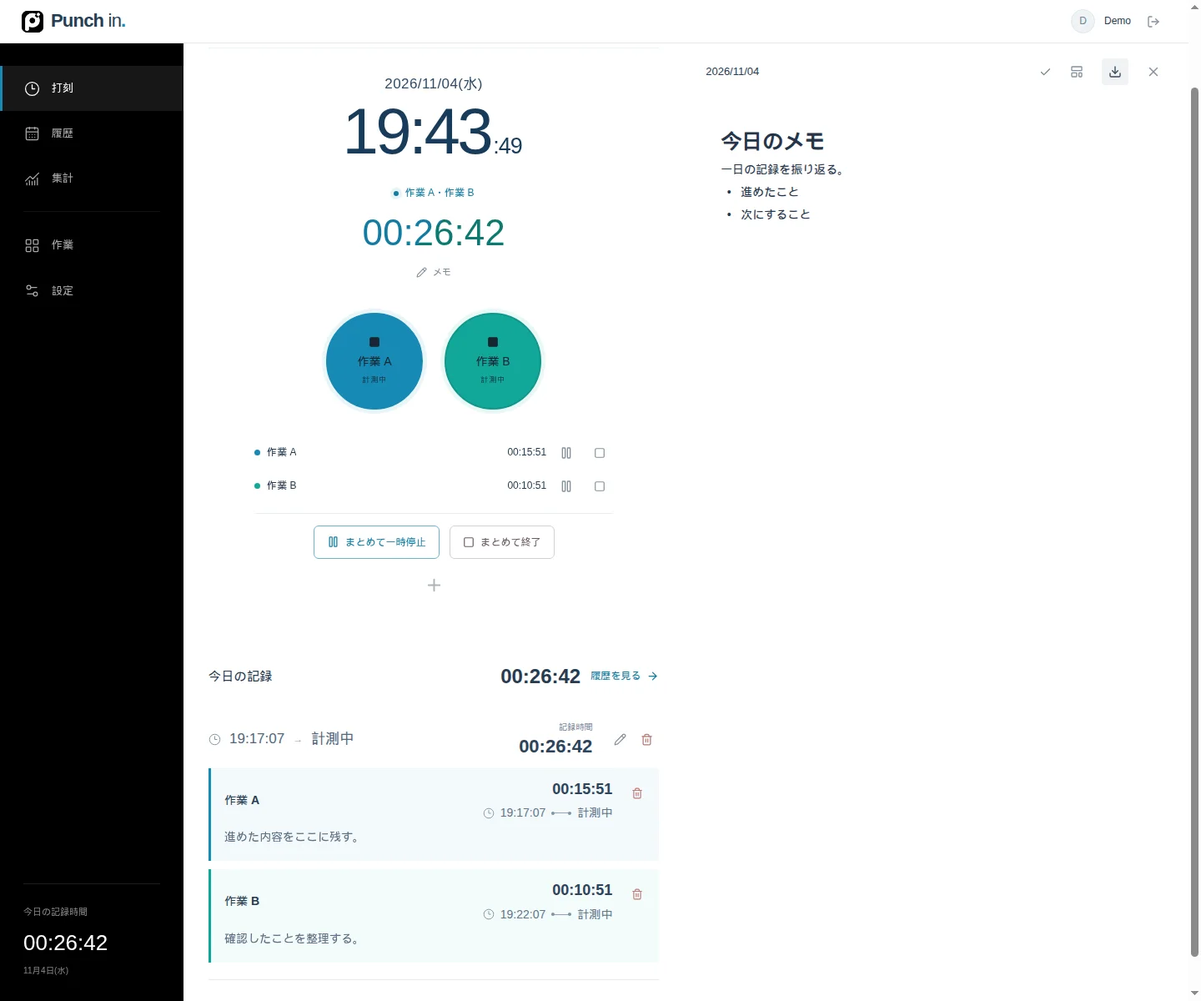
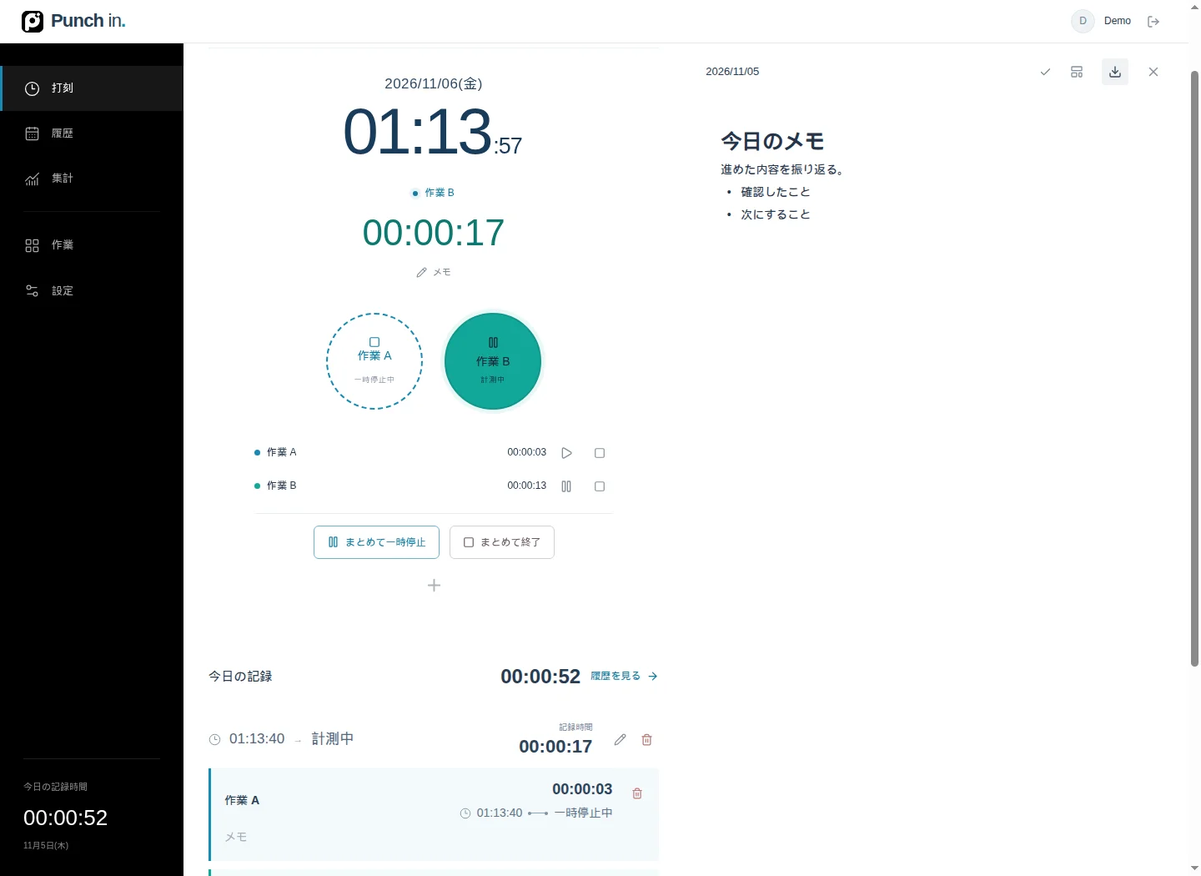
feat: 作業ボタンを開始・一時停止・終了の順に変更

diff --git a/tests/punch.test.ts b/tests/punch.test.ts
@@ -2,6 +2,10 @@ import test from 'node:test';
 import assert from 'node:assert/strict';
 import { DatabaseSync } from 'node:sqlite';
 import { readFileSync, readdirSync } from 'node:fs';
+import {performWork} from '../lib/work-server';
+import {realTime,controlWork,members} from '../lib/work';
+import {sessionSchema} from '../lib/validation';
+import {sessionFromRow} from '../lib/session-row';
 import { performPunch } from '../lib/punch-server';
 import { applyPunchDelta, completedTotal, projectPunch } from '../lib/punch-state';
 import type { AppState, PendingPunch, PunchDelta, Session } from '../lib/model';
@@ -20,16 +24,16 @@ function database(beforeBatch?:(d:DatabaseSync,n:number)=>void){
 function input(revision=0,categoryId='punch',mutationId=crypto.randomUUID()){return{payload:{categoryId},expectedRevision:revision,mutationId};}
 
 test('即時表示は確定データとrevisionを変更しない',()=>{const projected=projectPunch(state,pending);assert.equal(projected.sessions.length,1);assert.equal(projected.sessions[0].startedAt,at);assert.equal(projected.revision,0);assert.equal(state.sessions.length,0);assert.ok(projected.sessions[0].id.startsWith('pending:'));});
-test('通信失敗後は確定データだけで元の表示に戻せる',()=>{const source={...state,sessions:[record('running',at-10000)]};const provisional=projectPunch(source,pending);assert.equal(provisional.sessions[0].endedAt,at);assert.equal(source.sessions[0].endedAt,null);});
+test('通信失敗後は確定データだけで元の表示に戻せる',()=>{const source={...state,sessions:[record('running',at-10000)]};const provisional=projectPunch(source,pending);assert.equal(provisional.sessions[0].endedAt,null);assert.equal(provisional.sessions[0].work!.members[0].state,'paused');assert.equal(realTime(provisional.sessions[0],at+10000),10000);assert.equal(source.sessions[0].endedAt,null);});
 test('先に別端末の更新を受け取ったら仮表示を再適用しない',()=>{const next={...state,revision:1,sessions:[record('saved')]};assert.equal(projectPunch(next,pending),next);});
 test('差分反映は既存履歴を保持し、仮IDを残さない',()=>{const source={...state,sessions:[record('old',at-2000,at-1000)]};const delta:PunchDelta={baseRevision:0,revision:1,serverNow:at+10,sessions:[record('new')]};const merged=applyPunchDelta(source,delta)!;assert.deepEqual(merged.sessions.map(s=>s.id),['new','old']);assert.equal(merged.sessions[1],source.sessions[0]);assert.equal(source.revision,0);});
 test('古い差分は無視し、欠けたrevisionは全体取得を要求',()=>{const delta:PunchDelta={baseRevision:1,revision:2,serverNow:at,sessions:[record('new')]};assert.equal(applyPunchDelta(state,delta),null);const newer={...state,revision:3};assert.equal(applyPunchDelta(newer,delta),newer);});
 test('確定時間の集計に計測中の時間を二重加算しない',()=>{assert.equal(completedTotal([record('old',at-2000,at-1000),record('running')]),1000);});
 test('打刻は履歴全体を読まず2回のDBバッチで確定し、受信時刻を使う',async()=>{const f=database();try{const result=await performPunch(f.d,user,input(),at);assert.ok(result);assert.equal(result.sessions[0].startedAt,at);assert.equal(result.revision,1);assert.equal(f.calls,2);assert.ok(f.queries.filter(s=>s.startsWith('SELECT')&&s.includes('FROM sessions')).every(s=>s.includes('ended_at IS NULL')||s.includes('LIMIT 1')));}finally{f.sqlite.close();}});
-test('開始・ボタンによる並行追加・個別終了と再試行の冪等性',async()=>{const f=database();try{const first=await performPunch(f.d,user,input(),at);assert.ok(first);const nextInput=input(1,'other');const next=await performPunch(f.d,user,nextInput,at+1000);assert.ok(next);assert.equal(next.sessions.length,1);assert.equal(next.sessions[0].id,first.sessions[0].id);assert.equal(next.sessions[0].endedAt,null);assert.deepEqual(next.sessions[0].work!.members.map(m=>m.categoryId),['punch','other']);assert.equal(await performPunch(f.d,user,nextInput,at+2000),null);const stop=await performPunch(f.d,user,input(2,'other'),at+3000);assert.ok(stop);assert.equal(stop.sessions[0].endedAt,null);assert.equal(stop.sessions[0].work!.members[1].endedAt,at+3000);await performPunch(f.d,user,input(3),at+4000);assert.equal(f.sqlite.prepare('SELECT COUNT(*) AS n FROM sessions WHERE ended_at IS NULL').get()?.n,0);}finally{f.sqlite.close();}});
+test('開始・ボタンによる並行追加・個別終了と再試行の冪等性',async()=>{const f=database();try{const first=await performPunch(f.d,user,input(),at);assert.ok(first);const nextInput=input(1,'other');const next=await performPunch(f.d,user,nextInput,at+1000);assert.ok(next);assert.equal(next.sessions.length,1);assert.equal(next.sessions[0].id,first.sessions[0].id);assert.equal(next.sessions[0].endedAt,null);assert.deepEqual(next.sessions[0].work!.members.map(m=>m.categoryId),['punch','other']);assert.equal(await performPunch(f.d,user,nextInput,at+2000),null);const stop=await performPunch(f.d,user,input(2,'other'),at+3000);assert.ok(stop);assert.equal(stop.sessions[0].endedAt,null);assert.equal(stop.sessions[0].work!.members[1].state,'paused');await performPunch(f.d,user,input(3,'other'),at+3500);await performPunch(f.d,user,input(4),at+4000);await performPunch(f.d,user,input(5),at+5000);assert.equal(f.sqlite.prepare('SELECT COUNT(*) AS n FROM sessions WHERE ended_at IS NULL').get()?.n,0);}finally{f.sqlite.close();}});
 test('途中で競合しても打刻を部分保存しない',async()=>{const f=database((d,n)=>{if(n===2)d.exec("UPDATE preferences SET revision=1,mutation_token='other-device'");});try{await assert.rejects(()=>performPunch(f.d,user,input(),at),/別の画面/);assert.equal(f.sqlite.prepare('SELECT COUNT(*) AS n FROM sessions').get()?.n,0);}finally{f.sqlite.close();}});
 test('アーカイブした項目・他人の項目には打刻できない',async()=>{const f=database();try{f.sqlite.exec("UPDATE categories SET archived=1 WHERE id='punch'");await assert.rejects(()=>performPunch(f.d,user,input(),at),/見つかりません/);await assert.rejects(()=>performPunch(f.d,'unknown',input(),at),/再読み込み/);}finally{f.sqlite.close();}});
-test('サーバー時刻のずれがあっても既存区間に重ねない',async()=>{const f=database();try{await performPunch(f.d,user,input(),at);const result=await performPunch(f.d,user,input(1),at-1000);assert.ok(result);assert.equal(result.sessions[0].endedAt,at);}finally{f.sqlite.close();}});
+test('サーバー時刻のずれがあっても既存区間に重ねない',async()=>{const f=database();try{await performPunch(f.d,user,input(),at);const result=await performPunch(f.d,user,input(1),at-1000);assert.ok(result);assert.equal(result.sessions[0].endedAt,null);assert.equal(realTime(result.sessions[0],at+10000),0);}finally{f.sqlite.close();}});
 
 test('通信が遅れても調整済みの押下時刻を記録する',async()=>{const f=database();try{const result=await performPunch(f.d,user,{...input(),pressedAt:at-1500},at);assert.equal(result?.sessions[0].startedAt,at-1500);}finally{f.sqlite.close();}});
 test('不正・古すぎる端末時刻にはサーバー受信時刻を使う',async()=>{for(const pressedAt of [at-60001,at+2001]){const f=database();try{const result=await performPunch(f.d,user,{...input(),pressedAt},at);assert.equal(result?.sessions[0].startedAt,at);}finally{f.sqlite.close();}}});
@@ -38,3 +42,20 @@ test('日の区切りをまたいで届いても押下した日へ計上する',
 test('打刻差分が遅れても先に保存したメモを巻き戻さない',()=>{const source={...state,sessions:[{...record('running'),memo:'保存済みのメモ'}]};const next=applyPunchDelta(source,{baseRevision:0,revision:1,serverNow:at+1000,sessions:[record('running',at,at+1000)]});assert.equal(next?.sessions[0].memo,'保存済みのメモ');assert.equal(next?.sessions[0].endedAt,at+1000);});
 
 test('並行数の上限を超えても仮表示で画面を壊さず確定状態を保つ',()=>{const ids=Array.from({length:50},(_,i)=>i?'work-'+i:'punch');const s:Session={...record('running'),work:{version:1,mode:'auto',members:ids.map(categoryId=>({categoryId,memo:'',state:'active',weight:1})),intervals:[{start:at,end:null,categoryIds:ids}]}};const source={...state,sessions:[s]};assert.equal(projectPunch(source,{...pending,categoryId:'other'}),source);assert.equal(s.work!.members.length,50);});
+
+
+test('単独ボタンは開始→一時停止→終了と進み、一時停止以降の時間を含めない',async()=>{const f=database();try{
+  const first=(await performPunch(f.d,user,input(),at))!.sessions[0],pauseJob=input(1);
+  const paused=(await performPunch(f.d,user,pauseJob,at+10000))!.sessions[0];assert.equal(paused.id,first.id);assert.equal(paused.endedAt,null);assert.equal(members(paused)[0].state,'paused');assert.equal(realTime(paused,at+90000),10000);assert.ok(sessionSchema.safeParse(paused).success);
+  assert.equal(await performPunch(f.d,user,pauseJob,at+20000),null);assert.equal(f.sqlite.prepare('SELECT revision FROM preferences').get()!.revision,2);
+  const ended=(await performPunch(f.d,user,input(2),at+60000))!.sessions[0];assert.equal(ended.endedAt,at+10000);assert.equal(members(ended)[0].endedAt,at+10000);assert.ok(sessionSchema.safeParse(ended).success);
+  const again=(await performPunch(f.d,user,input(3),at+70000))!.sessions[0];assert.notEqual(again.id,first.id);assert.equal(again.startedAt,at+70000);assert.equal(again.memo,'');
+}finally{f.sqlite.close();}});
+test('単独からの変換も仮表示とサーバーが一致し、通信前の確定データを保つ',async()=>{const f=database();try{const initial=(await performPunch(f.d,user,input(),at))!.sessions[0];let source={...state,revision:1,sessions:[initial]};
+  for(const [i,time] of [at+5000,at+10000].entries()){const job={...pending,baseRevision:1+i,at:time,mutationId:crypto.randomUUID()},provisional=projectPunch(source,job);const result=(await performPunch(f.d,user,{payload:{categoryId:'punch'},expectedRevision:job.baseRevision,mutationId:job.mutationId,pressedAt:time},time))!;assert.deepEqual(provisional.sessions[0],result.sessions[0]);assert.equal(source.sessions[0].endedAt,null);source=applyPunchDelta(source,result)!;}
+  assert.equal(source.sessions[0].endedAt,at+5000);
+}finally{f.sqlite.close();}});
+test('単独の一時停止へ変換する直前のメモ保存も原子的に引き継ぐ',async()=>{const f=database((db,n)=>{if(n===4)db.prepare("UPDATE sessions SET memo='latest memo' WHERE user_id=?").run(user);});try{await performPunch(f.d,user,input(),at);await performPunch(f.d,user,input(1),at+10000);const s=sessionFromRow(f.sqlite.prepare('SELECT * FROM sessions').get()!);assert.equal(s.memo,'latest memo');assert.equal(s.work!.members[0].memo,'latest memo');assert.equal(f.calls,4);}finally{f.sqlite.close();}});
+test('一時停止後の個別再開は同じ記録を続け、その後のボタンでも一時停止できる',async()=>{const f=database();try{const first=(await performPunch(f.d,user,input(),at))!.sessions[0];await performPunch(f.d,user,input(1),at+10000);const resumed=(await performWork(f.d,user,{payload:{id:first.id,control:'resume',categoryId:'punch'},expectedRevision:2,mutationId:crypto.randomUUID()},at+20000))!.sessions[0];assert.equal(members(resumed).length,1);assert.equal(members(resumed)[0].state,'active');const paused=(await performPunch(f.d,user,input(3),at+30000))!.sessions[0];assert.equal(realTime(paused,at+90000),20000);assert.equal(members(paused)[0].state,'paused');}finally{f.sqlite.close();}});
+test('一括停止した作業をボタンで終了しても、残った対象だけまとめて再開できる',()=>{let s=controlWork(record('group'),'join','other',at);s=controlWork(s,'pauseAll','',at+10000);const source={...state,sessions:[s]},next=projectPunch(source,{...pending,at:at+20000}).sessions[0];assert.equal(members(next)[0].state,'finished');assert.deepEqual(next.work!.batchPausedCategoryIds,['other']);const resumed=controlWork(next,'resumeAll','',at+30000);assert.deepEqual(members(resumed).map(m=>m.state),['finished','active']);assert.equal(realTime(resumed,at+40000),20000);});
+test('同時刻の連打でもゼロ秒の一時停止と終了を正しく保存する',async()=>{const f=database();try{await performPunch(f.d,user,input(),at);const paused=(await performPunch(f.d,user,input(1),at))!.sessions[0];assert.ok(sessionSchema.safeParse(paused).success);const ended=(await performPunch(f.d,user,input(2),at))!.sessions[0];assert.equal(ended.endedAt,at);assert.equal(realTime(ended,at+10000),0);assert.ok(sessionSchema.safeParse(ended).success);}finally{f.sqlite.close();}});

diff --git a/app/punch-app.tsx b/app/punch-app.tsx
@@ -2,7 +2,7 @@
 
 import DurationValue from './components/time/duration-value';
 import { lazy, Suspense, useCallback, useEffect, useMemo, useRef, useState, type CSSProperties, type FormEvent, type ReactNode } from "react";
-import { Palette, Clock3, CalendarDays, ChartNoAxesCombined, Settings2, LayoutGrid, ChevronLeft, ChevronRight, ChevronUp, ChevronDown, Plus, Pencil, X, Menu, LogOut, Play, Square, Search, Download, Upload, Eye, EyeOff, Trash2, Check, LoaderCircle, Bell, ArrowRight, RefreshCw } from "lucide-react";
+import { Palette, Clock3, CalendarDays, ChartNoAxesCombined, Settings2, LayoutGrid, ChevronLeft, ChevronRight, ChevronUp, ChevronDown, Plus, Pencil, X, Menu, LogOut, Play, Pause, Square, Search, Download, Upload, Eye, EyeOff, Trash2, Check, LoaderCircle, Bell, ArrowRight, RefreshCw } from "lucide-react";
 import type { AppState, Backup, Category, PendingPunch, Preferences, PunchDelta, Session } from "../lib/model";
 import { businessDay, clock, contrastText, dayStartLabel, duration, fromTimeInput, hms, hm, minuteIso, hoursMinutes, periodRange, readableDate, readableColor, shiftDay, shiftPeriod, minuteInput, wallParts, type Period } from "../lib/time";
 
@@ -153,7 +153,7 @@ export default function PunchApp({initial,displayName,draftScope}:{initial:AppSt
       setPendingPunch({categoryId:(job.payload as {categoryId:string}).categoryId,mutationId:job.mutationId,baseRevision:job.expectedRevision,at});
     }
     try {
-      if(job.action==="work"||job.action==="punch"){const current=job.action==="work"?stateRef.current.sessions.find(s=>s.id===(job.payload as {id:string}).id):stateRef.current.sessions.find(s=>s.endedAt===null&&s.categoryId!==(job.payload as {categoryId:string}).categoryId);if(current&&!current.work&&!await memoStore.flush(current.id)){retryable=false;throw new Error("メモの保存を確認してください");}}
+      if(job.action==="work"||job.action==="punch"){const current=job.action==="work"?stateRef.current.sessions.find(s=>s.id===(job.payload as {id:string}).id):stateRef.current.sessions.find(s=>s.endedAt===null);if(current&&!current.work&&!await memoStore.flush(current.id)){retryable=false;throw new Error("メモの保存を確認してください");}}
       const r=await fetch("/api/action",{method:"POST",headers:{"Content-Type":"application/json"},body:JSON.stringify(job),signal:AbortSignal.timeout(15000)});
       const result=await r.json() as ActionResult;
       if(!r.ok){retryable=r.status>=500;setPendingPunch(null);if(r.status===409)await refresh(true);throw new Error(result.error||"保存できませんでした");}
@@ -227,8 +227,8 @@ export default function PunchApp({initial,displayName,draftScope}:{initial:AppSt
       {view==="punch"&&<>
         <div className="punch-tools"><span className="activity-date">{today!==wallParts(now,state.preferences.timezone).date?`${readableDate(today)}の記録`:readableDate(today)}</span><button className="text-button" onClick={()=>go("categories")}><Settings2 size={15}/>ボタンを編集</button></div>
         <section className="punch-stage" aria-label="打刻"><div className="clock-area"><div className="full-date">{dateFormatter.format(now)}</div><div className="big-clock" aria-label={`現在時刻 ${clock(now,state.preferences.timezone,true)}`}><span>{clock(now,state.preferences.timezone)}</span><small className="clock-seconds">:{String(wallParts(now,state.preferences.timezone).second).padStart(2,"0")}</small></div><div className={`current-state ${running?"is-running":""} ${running&&members(running).every(m=>m.state!=="active")?"is-paused":""}`} style={runningCategory?{color:readableColor(runningCategory.color)}:undefined}>{running?<><span className="pulse-dot"/><span>{members(running).every(m=>m.state!=="active")?"一時停止中":members(running).filter(m=>m.state==="active").map(m=>category(m.categoryId)?.name).join("・")}</span></>:<><span className="idle-dot"/>未計測</>}</div><div className={`live-details ${running?"is-active":""}`} inert={!running} aria-hidden={!running} style={displayCategory?{color:readableColor(displayCategory.color)}:undefined}><div className="live-details-content"><span className={`running-elapsed ${timerColors.length>1?"has-multiple-colors":""}`} style={{...(timerColors.length>1?{backgroundImage:diagonalColors(timerColors)}:{color:timerColors[0]??(running?"#64748b":undefined)})}}><DurationValue value={displaySession?duration(displaySession,now):0} seconds/></span><button className="running-memo" disabled={!running||pending} onClick={()=>{if(!running)return;if(!running.work){void editSession(running);return;}if(running.businessDay!==today){setHistoryDay(running.businessDay);setHistoryTo(running.businessDay);go("history",running.businessDay);}requestAnimationFrame(()=>requestAnimationFrame(()=>document.querySelector<HTMLElement>(`[data-record-id="${CSS.escape(running.id)}"] .inline-memo textarea`)?.focus()));}}><Pencil size={13}/>{displaySession?.work?"メモ":displaySession?.memo||"メモを追加"}</button></div></div></div>
-        <div className="punch-controls"><div className={`punch-buttons ${visibleCats.length===1?"single-button":""}`}>{visibleCats.map((c,index)=><button key={c.id} className={`punch-button ${memberState(c.id)==="active"?"recording":memberState(c.id)==="paused"?"paused":""}`} style={{"--punch-row":buttonPositions.wide[index].row,"--punch-column":buttonPositions.wide[index].column,"--compact-row":buttonPositions.compact[index].row,"--compact-column":buttonPositions.compact[index].column,"--category":c.color,"--category-stroke":readableColor(c.color,3),"--category-text":readableColor(c.color),"--category-ink":contrastText(c.color)} as CSSProperties} disabled={pending} onClick={()=>void mutate("punch",{categoryId:c.id},memberState(c.id)==="paused"?`${c.name}を再開しました`:(memberState(c.id)==="active"||memberState(c.id)==="paused")?`${c.name}を終了しました`:`${c.name}を開始しました`)} aria-label={`${c.name}を${memberState(c.id)==="paused"?"再開":memberState(c.id)==="active"?"終了":running?"並行追加":"開始"}`} aria-pressed={(memberState(c.id)==="active"||memberState(c.id)==="paused")} aria-busy={pendingPunch?.categoryId===c.id||undefined}><span className="punch-action">{pendingPunch?.categoryId===c.id?<LoaderCircle size={15} className="spin"/>:memberState(c.id)==="active"?<Square size={14} fill="currentColor"/>:<Play size={15}/>}</span><span>{c.name}</span>{((memberState(c.id)==="active"||memberState(c.id)==="paused")||pendingPunch?.categoryId===c.id)&&<span className="punch-running-label">{pendingPunch?.categoryId===c.id?"保存中":memberState(c.id)==="paused"?"一時停止中":"計測中"}</span>}</button>)}</div>{running&&<ParallelControls session={running} categories={state.categories} times={runningEntryTimes} pending={pending} control={(control,categoryId)=>{void mutate("work",{id:running.id,control,categoryId});}}/>}<button className="punch-add" onClick={addCategory} aria-label="作業を追加"><Plus size={23}/></button></div></section>
-        {running&&runningCategory?.hidden&&!running.work&&<div className="notice">非表示の作業「{runningCategory.name}」を計測中です<button className="text-button" disabled={pending} onClick={()=>void mutate("punch",{categoryId:runningCategory.id},"計測を終了しました")}>終了する</button></div>}
+        <div className="punch-controls"><div className={`punch-buttons ${visibleCats.length===1?"single-button":""}`}>{visibleCats.map((c,index)=><button key={c.id} className={`punch-button ${memberState(c.id)==="active"?"recording":memberState(c.id)==="paused"?"paused":""}`} style={{"--punch-row":buttonPositions.wide[index].row,"--punch-column":buttonPositions.wide[index].column,"--compact-row":buttonPositions.compact[index].row,"--compact-column":buttonPositions.compact[index].column,"--category":c.color,"--category-stroke":readableColor(c.color,3),"--category-text":readableColor(c.color),"--category-ink":contrastText(c.color)} as CSSProperties} disabled={pending} onClick={()=>void mutate("punch",{categoryId:c.id},memberState(c.id)==="active"?`${c.name}を一時停止しました`:memberState(c.id)==="paused"?`${c.name}を終了しました`:`${c.name}を開始しました`)} aria-label={`${c.name}を${memberState(c.id)==="active"?"一時停止":memberState(c.id)==="paused"?"終了":running?"並行追加":"開始"}`} aria-pressed={(memberState(c.id)==="active"||memberState(c.id)==="paused")} aria-busy={pendingPunch?.categoryId===c.id||undefined}><span className="punch-action">{pendingPunch?.categoryId===c.id?<LoaderCircle size={15} className="spin"/>:memberState(c.id)==="active"?<Pause size={15}/>:memberState(c.id)==="paused"?<Square size={14}/>:<Play size={15}/>}</span><span>{c.name}</span>{((memberState(c.id)==="active"||memberState(c.id)==="paused")||pendingPunch?.categoryId===c.id)&&<span className="punch-running-label">{pendingPunch?.categoryId===c.id?"保存中":memberState(c.id)==="paused"?"一時停止中":"計測中"}</span>}</button>)}</div>{running&&<ParallelControls session={running} categories={state.categories} times={runningEntryTimes} pending={pending} control={(control,categoryId)=>{void mutate("work",{id:running.id,control,categoryId});}}/>}<button className="punch-add" onClick={addCategory} aria-label="作業を追加"><Plus size={23}/></button></div></section>
+        {running&&runningCategory?.hidden&&!running.work&&<div className="notice">非表示の作業「{runningCategory.name}」を計測中です<button className="text-button" disabled={pending} onClick={()=>void mutate("work",{id:running.id,control:"finish",categoryId:runningCategory.id},"計測を終了しました")}>終了する</button></div>}
       </>}
       {view==="history"&&<>
         <div className="toolbar"><div className="date-navigation"><input aria-label={historyRange?"履歴の開始日":"履歴の日付"} type="date" value={historyRange?historyDay:visibleHistoryDay} onChange={e=>{if(!e.target.value)return;setHistoryDay(e.target.value);if(!historyRange||e.target.value>historyTo)setHistoryTo(e.target.value);}}/>{historyRange&&<><span className="date-dash">—</span><input aria-label="履歴の終了日" type="date" value={historyTo} min={historyDay} onChange={e=>{if(e.target.value)setHistoryTo(e.target.value);}}/></>}<button className="subtle-button" aria-pressed={historyRange} onClick={()=>{setHistoryRange(v=>!v);setHistoryTo(historyDay);}}>期間</button></div></div>

diff --git a/lib/punch-server.ts b/lib/punch-server.ts
@@ -1,5 +1,5 @@
 import {sessionFromRow} from "./session-row";
-import {controlWork,currentMember} from "./work";
+import {controlWork,punchControl} from "./work";
 import {workUpdate} from "./work-server";
 import { z } from "zod";
 import { HttpError } from "./errors";
@@ -32,12 +32,9 @@ export async function performPunch(d: D1Database, user: string, input: { payload
   const guard = "EXISTS (SELECT 1 FROM preferences WHERE user_id=? AND mutation_token=?)";
   const statements = [d.prepare("UPDATE preferences SET revision=revision+1,mutation_token=? WHERE user_id=? AND revision=?").bind(input.mutationId, user, input.expectedRevision)];
   const changed: Session[] = [];
-  if(running&&(running.work||running.categoryId!==categoryId)){
-    const m=currentMember(running,categoryId);
-    const next=controlWork(running,m?.state==='active'?'finish':m?.state==='paused'?'resume':'join',categoryId,at,input.mutationId);
+  if(running){
+    const next=controlWork(running,punchControl(running,categoryId),categoryId,at,input.mutationId);
     statements.push(workUpdate(d,user,running,next,input.mutationId));changed.push(next);
-  }else if(running){
-    statements.push(d.prepare(`UPDATE sessions SET ended_at=?,updated_at=? WHERE user_id=? AND id=? AND ${guard}`).bind(at,at,user,running.id,user,input.mutationId));changed.push({...running,endedAt:at,updatedAt:at});
   }else{
     const started:Session={id:crypto.randomUUID(),categoryId,startedAt:at,endedAt:null,businessDay:businessDay(at,Number(p.day_start),String(p.timezone)),dayStart:Number(p.day_start),timezone:String(p.timezone),memo:'',createdAt:at,updatedAt:at};
     statements.push(d.prepare(`INSERT INTO sessions (user_id,id,category_id,started_at,ended_at,business_day,day_start,timezone,memo,created_at,updated_at) SELECT ?,?,?,?,?,?,?,?,?,?,? WHERE ${guard}`).bind(user,started.id,categoryId,at,null,started.businessDay,started.dayStart,started.timezone,'',at,at,user,input.mutationId));changed.push(started);

diff --git a/lib/punch-state.ts b/lib/punch-state.ts
@@ -1,4 +1,4 @@
-import {controlWork,currentMember,preserveMemos,realTime} from "./work";
+import {controlWork,punchControl,preserveMemos,realTime} from "./work";
 import type { AppState, PendingPunch, PunchDelta, Session } from "./model";
 import { businessDay } from "./time";
 
@@ -11,9 +11,9 @@ function projectPunchUnchecked(state: AppState, pending: PendingPunch): AppState
   if(pending.workId&&pending.control){const current=state.sessions.find(s=>s.id===pending.workId);if(!current)return state;const changed=controlWork(current,pending.control,pending.categoryId,pending.at,pending.mutationId);return {...state,sessions:state.sessions.map(s=>s.id===changed.id?changed:s)};}
   const running = state.sessions.find(s => s.endedAt === null);
   const at = Math.max(pending.at, running?.startedAt ?? 0, state.sessions[0]?.endedAt ?? 0);
-  if(running&&(running.work||running.categoryId!==pending.categoryId)){const m=currentMember(running,pending.categoryId);const changed=controlWork(running,m?.state==='active'?"finish":m?.state==='paused'?"resume":"join",pending.categoryId,at,pending.mutationId);return {...state,sessions:state.sessions.map(s=>s.id===changed.id?changed:s)};}
-  const sessions = state.sessions.map(s => s.id === running?.id ? { ...s, endedAt: at, updatedAt: at } : s);
-  if (running?.categoryId !== pending.categoryId) sessions.unshift({
+  if(running){const changed=controlWork(running,punchControl(running,pending.categoryId),pending.categoryId,at,pending.mutationId);return {...state,sessions:state.sessions.map(s=>s.id===changed.id?changed:s)};}
+  const sessions = [...state.sessions];
+  sessions.unshift({
     id: `pending:${pending.mutationId}`, categoryId: pending.categoryId,
     startedAt: at, endedAt: null, businessDay: businessDay(at, state.preferences.dayStart, state.preferences.timezone),
     dayStart: state.preferences.dayStart, timezone: state.preferences.timezone, memo: "", createdAt: at, updatedAt: at,

diff --git a/lib/work.ts b/lib/work.ts
@@ -8,6 +8,8 @@ export type WorkControl = 'join'|'pause'|'resume'|'finish'|'end'|'pauseAll'|'res
 export function memberKey(m:WorkMember){return m.id??m.categoryId;}
 export function members(s:Session):WorkMember[]{return s.work?.members??[{categoryId:s.categoryId,memo:s.memo,state:s.endedAt===null?'active':'finished',weight:1}];}
 export function currentMember(s:Session,categoryId:string){return members(s).findLast(m=>m.categoryId===categoryId);}
+/** The work button pauses an active entry, then finishes a paused one. */
+export function punchControl(s:Session,categoryId:string):'pause'|'finish'|'join'{const state=currentMember(s,categoryId)?.state;return state==='active'?'pause':state==='paused'?'finish':'join';}
 export function includesCategory(s:Session,id:string){return members(s).some(m=>m.categoryId===id);}
 export function intervalMembers(i:WorkInterval){return i.memberIds??i.categoryIds;}
 export function realTime(s:Session,now:number,category=''){return s.work?s.work.intervals.filter(i=>!category||i.categoryIds.includes(category)).reduce((n,i)=>n+Math.max(0,(i.end??now)-i.start),0):category&&s.categoryId!==category?0:Math.max(0,(s.endedAt??now)-s.startedAt);}

diff --git a/app/globals.css b/app/globals.css
@@ -481,3 +481,4 @@
 .record-interval>time:first-child{display:flex;align-items:center;gap:6px}
 .popover-records .popover-record-period{display:flex;align-items:flex-start;gap:6px}
 .popover-record-period>.time-range-icon{margin-top:2px}
+.punch-button.paused .punch-action{position:static;opacity:1}

diff --git a/docs/SPEC.md b/docs/SPEC.md
@@ -6,7 +6,7 @@
 ## 打刻
 - 初期項目は「打刻」1つ。作業ごとに名前、色、並び順、表示・非表示を設定する。
 - 旧版の4つの初期項目は、すべて未編集で記録・追加作業がない場合に限り「打刻」へ置き換える。既存の設定・記録・個人編集は保持する。
-- 通常の打刻は別の作業を押すと共通の記録へ並行追加し、同じ作業を押すと対象だけ終了する。並行中は対象作業だけを終了し、一時停止中の作業を押すと再開する。
+- 通常の打刻は別の作業を押すと共通の記録へ並行追加する。同じ作業ボタンは計測中なら対象だけ一時停止し、一時停止中なら対象だけ終了する。再開は作業ごとの再開ボタンか一括再開から行う。
 - 押下時刻はサーバー時刻で補正した端末の時刻を送信し、サーバーが受信前60秒〜受信後2秒の範囲で検証する。未来には記録せず、不正・古すぎる値や旧クライアントは受信時刻にフォールバックする。既存区間と重ならない時刻を確定し、UTCのUnixミリ秒で永続化する。集計は元のミリ秒を加算し、表示でのみ分に切り捨てる。
 - 画面を閉じてもDBの開始時刻は維持される。次回表示時に経過時間を再計算する。
 - 押した直後は「保存中」として仮表示し、保存成功後に確定値へ置き換える。仮表示は確定データ・revisionを変更しない。失敗時は仮表示を外して再取得し、通信結果が不明な場合は同じmutationIdで再試行する。
@@ -221,3 +221,11 @@
 - 打刻画面の現在時刻、経過時間、並行中の作業時間、今日の記録の合計と各作業の時間・開始終了を秒まで表示する。現在時刻の秒は少し小さくし、狭い画面にも収める。
 - サイドバーの今日の記録時間もHH:mm:ssにする。履歴・集計・タイムライン・日時入力・CSVは従来の分単位を維持する。
 - DurationValueとWorkRecordsのsecondsプロパティで表示精度を選ぶ。初期値はfalseとし、打刻画面から明示的に指定する。DB・API・JSONの精度や保存処理は変更しない。
+
+
+## 作業ボタンの開始・一時停止・終了（2026-11-06）
+
+- 未計測の作業ボタンは開始（親記録があれば並行追加）、計測中なら一時停止、一時停止中なら終了とする。全員一時停止でも親記録は未終了で保持する。
+- 終了時刻は最後に計測した時刻を使う。一時停止してから終了するまでの待機時間を含めない。個別・一括の再開ボタンは同じ記録を続け、終了後の再打刻は新しい記録を作る。
+- サーバーと即時仮表示は共通のpunchControlで操作を決める。単独の旧形式も最初の一時停止でwork形式へ変換し、メモと記録日を保持する。
+- ボタンの操作アイコンは未計測が再生、計測中が一時停止、一時停止中が終了。ラベル・読み上げ・通知も対応させる。

diff --git a/docs/API.md b/docs/API.md
@@ -132,7 +132,7 @@ Sessionの任意フィールド`work`は`{version:1,mode,members,intervals,batch
 - DailyNoteとNoteWriteは任意の`template:{id,fingerprint}`を持つ。fingerprintはIDを除いたブロック構造のSHA-256（末尾追加後は空文字）。本文と同じCASで保存する。
 - JSON v4は`templates`（CASのversionを除く本体）と`defaultTemplateId`、`sessions.work`、`dailyNotes.template`を含む。旧v1〜v3も受け付ける。既存テンプレートIDは上書きせず、デフォルトは個人設定を取り込む場合だけ復元する。
 
-通常のpunchは、未計測の別カテゴリを並行追加し、計測中ならその作業を終了、一時停止中なら再開する。親記録がなければ新しく開始する。個別削除でも親IDと開始側の記録日を維持し、先頭カテゴリが変わったときはcategoryIdと互換memoを残る先頭作業に合わせる。作業別メモの書き込みはカテゴリIDで対象を原子的に解決する。
+通常のpunchは、未計測の別カテゴリを並行追加し、計測中ならその作業を一時停止、一時停止中なら終了する。再開はworkのresumeまたはresumeAllを使う。親記録がなければ新しく開始する。個別削除でも親IDと開始側の記録日を維持し、先頭カテゴリが変わったときはcategoryIdと互換memoを残る先頭作業に合わせる。作業別メモの書き込みはカテゴリIDで対象を原子的に解決する。
 
 作業別のstartedAt/endedAtは任意の追加情報なのでJSON v4のまま引き継げる。一時停止中に終了した場合の終了時刻は、最後の計測区間の終端とする。旧データの個別時刻は参加区間から推定し、元データを書き換えない。履歴CSVの開始・終了も作業ごとの時刻を使い、集計CSVは作業ごとの計上時間と、その合計を「作業時間」行で出力する。実時間の合計行は含めない。
 
@@ -160,3 +160,6 @@ Sessionの任意フィールド`work`は`{version:1,mode,members,intervals,batch
 ## 分単位のUI・CSVと保存精度
 
 UIの時刻・時間は分単位で表示するが、API・JSONバックアップの日時と配分は従来のミリ秒単位。DB構造・JSON v4も変更しない。CSVの「秒数」は「作業時間（分）」へ変更し、整数分を出力する。日時列はUTCの分単位表記とする。CSVは分析用であり、端数を含む完全な復元にはJSONを使う。
+
+
+作業ボタンのpunchは開始→一時停止→終了へ進む。単独の旧形式もpause時にwork形式へ変換する。通常の2回のDBバッチ、revisionとmutationIdの検証、押下時刻の補正を維持する。終了後の再試行は同じ結果を返し、新しい記録を開始しない。APIの入力形式とJSON v4は変更しない。

diff --git a/docs/VALIDATION.md b/docs/VALIDATION.md
@@ -150,3 +150,11 @@ punch-in-icon-v2.pngを元に、ロゴの形を保持して余白を整えたPNG
 - 新規のローカル検証ユーザーで実際に開始し、経過時間・現在時刻・サイドバーが毎秒進むことを確認。開始直後の経過時間は00:00:02から00:00:14へ進んだ。検証用の計測は終了した。
 - 打刻画面の今日の記録・並行中の作業も秒表示となり、履歴・集計の主領域はHH:mmを維持することを確認。
 - PC1440pxと狭い320pxで、現在時刻の秒と記録カードに横はみ出しなし。画像はローカルの架空ユーザーDemoで更新。
+
+## 作業ボタンの一時停止・終了（2026-11-06）
+
+- 型チェック、161件の単体テスト、Sites用ビルドが成功。サーバーと即時仮表示の一致、単独・並行・ゼロ秒の一時停止と終了、同じ操作の再試行、旧形式からの変換時のメモ保持、個別再開、一括再開対象の維持を検証。
+- ローカルWorkerの一般API20項目、並行作業・テンプレート22項目、再打刻8項目、日時編集7項目、メモ12項目、計69項目が成功。従来の終了を想定した検証も新しい開始→一時停止→終了へ更新した。
+- Chromeで実際に開始し、メモ入力後に一時停止、個別再開、作業ボタンで再停止・終了まで確認。再開は同じ1記録を継続し、メモを保持した。終了時刻は一時停止時刻と一致した。
+- 並行中の片方だけがpausedとなり、ほかはactiveを継続することを確認。ボタンのアイコンは一時停止・終了を示し、320pxでも丸いボタンを保ち横にはみ出さない。
+- 1,000件の履歴を持つ検証ユーザーで差分・互換性・版番号競合・再試行・304応答のチェックが成功。通常の2回のDBバッチを維持し、履歴全体の取得を追加していない。

diff --git a/README.md b/README.md
@@ -34,7 +34,7 @@
 
 ## 主な機能
 
-- **ひと押しで記録** — 別の作業ボタンを押すだけで並行追加。同じボタンで対象作業だけ終了し、一時停止中なら再開。並行中はまとめて一時停止・再開・終了も可能。一時停止後の終了は、最後に計測した時刻で確定。
+- **ひと押しで記録** — 別の作業ボタンを押すだけで並行追加。計測中の同じボタンで一時停止、もう一度押すと終了。再開は作業ごとの再開ボタンから行います。並行中はまとめて一時停止・再開・終了も可能。一時停止後の終了は、最後に計測した時刻で確定。
 - **自分に合う設定** — ボタンの追加・編集・非表示、設定一覧でのドラッグ並び替え、ボタンとテーマの色、1日の開始時刻、タイムゾーン。
 - **記録とメモ** — 履歴検索、日付行からの追加、ホイールまたは直接入力での日時修正、打刻ごとのメモ、日別ブロックメモの自動保存とMarkdown出力。
 - **日別メモのテンプレート** — 作成・編集・複製・削除、初回の自動挿入、別テンプレートへの変更。
